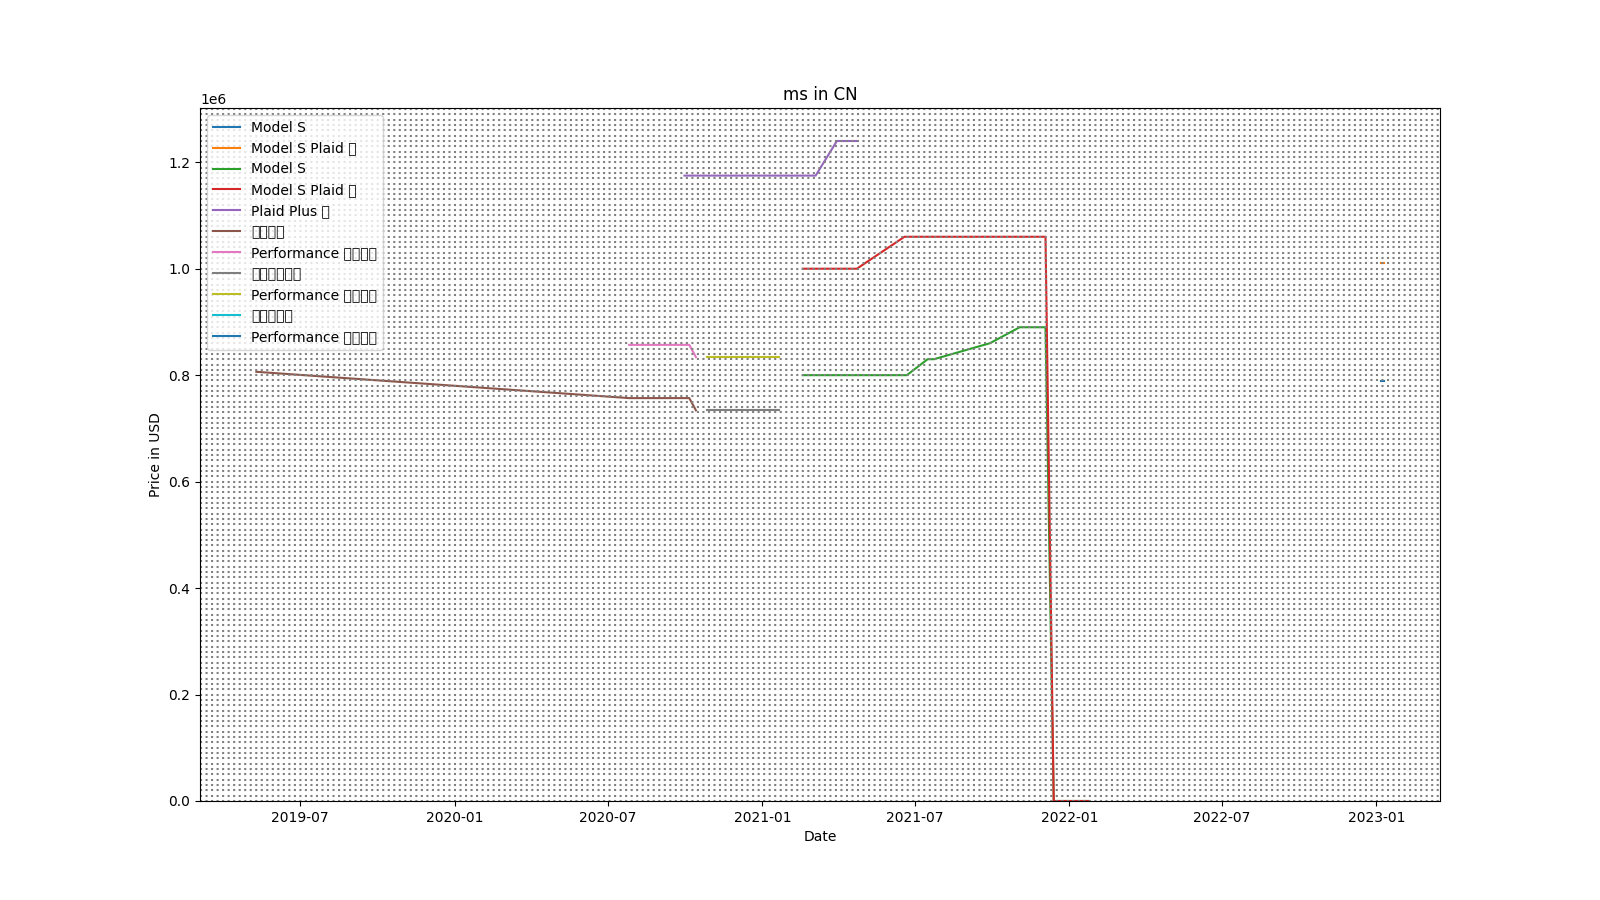
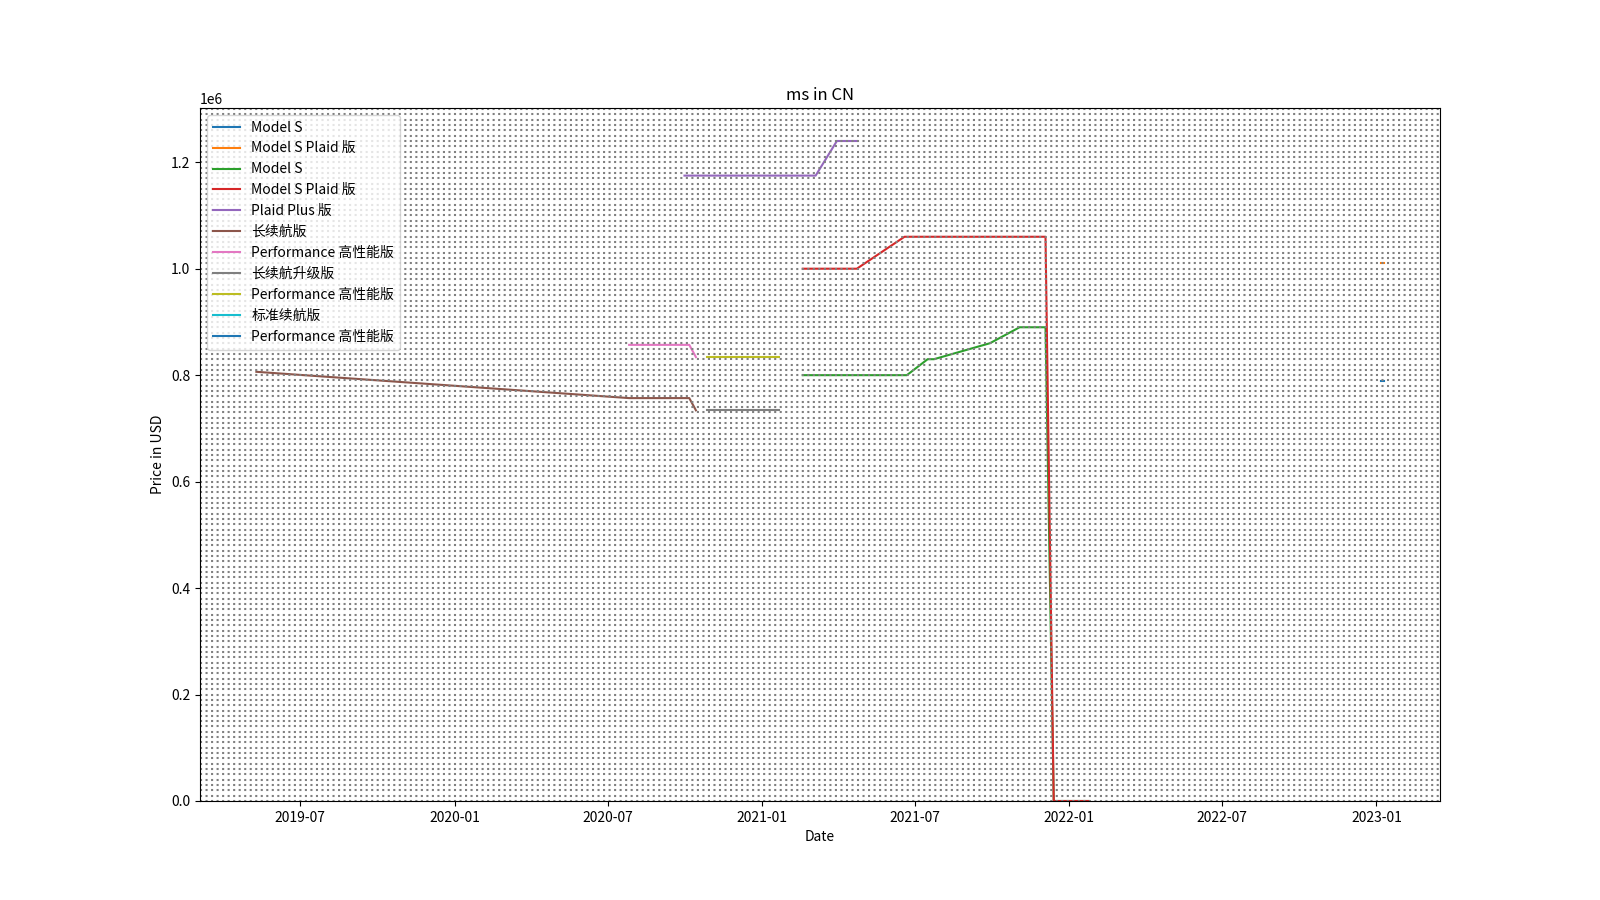
Feature: Adding font to print some chinese characters in pictures

diff --git a/tesla_wait_time_isualization/visualizeAllTrims.py b/tesla_wait_time_isualization/visualizeAllTrims.py
@@ -33,7 +33,7 @@ def plotModel(modelData, model, country):
 
     ax.legend()
     ax.set_ylim(bottom=0)
-
+    plt.rcParams['font.family'] = ['Noto Sans CJK JP']
     plt.xlabel("Date")
     plt.ylabel("Price in USD")
     plt.title(model + " in " + country)
